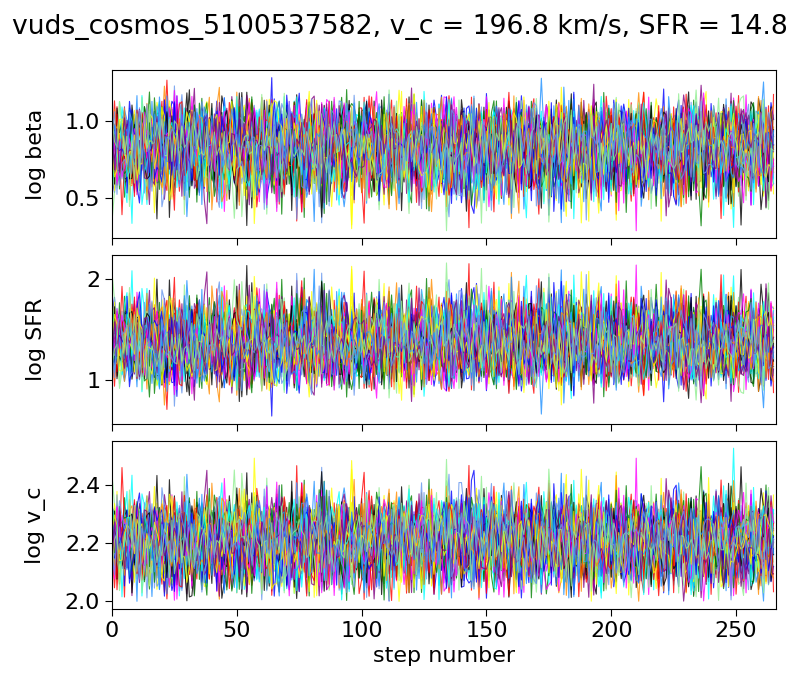
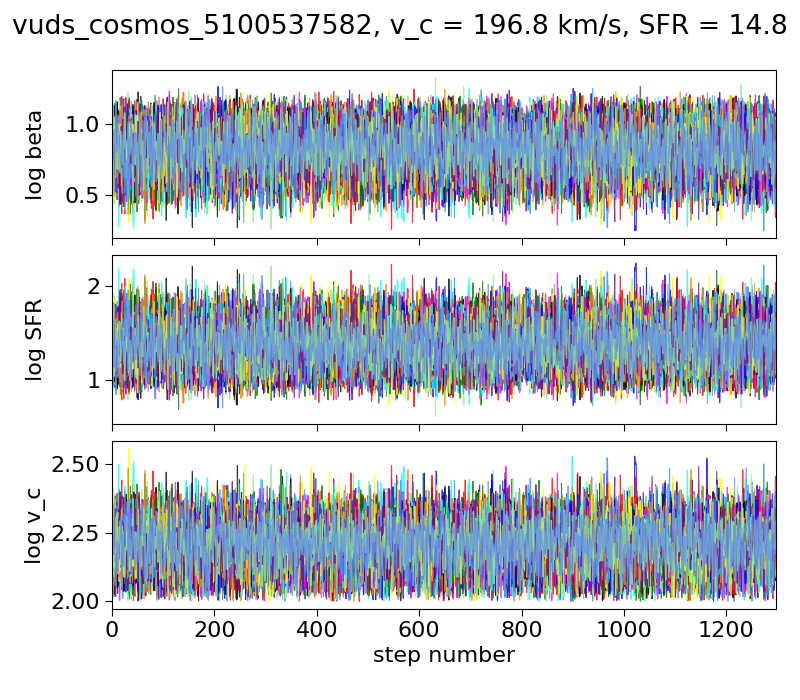
finishing files per laura and other modifications

diff --git a/script/plotter_mcmc.py b/script/plotter_mcmc.py
@@ -54,9 +54,9 @@ plot_saving = True
 
 plot0 = False  # single emission chain (requires gnedincooling)
 plot1 = False  # emission chains (requires gnedincooling)
-plot2 = True  # corners
+plot2 = False  # corners
 plot3 = False  # violins
-plot4 = False  # final trends
+plot4 = True  # final trends
 
 stored_data_loc = "mac" # can be either quasar (for the machine is quasar in leiden) or mac (for mac laptop) or github (for github)
                         # or linux (for linux laptop)plot_logprob = False
@@ -67,11 +67,11 @@ model = "old"
 nwalkers = 48
 nsteps = 100000
 thin = 100
-discard = 2000
+discard = 10000
 
-data = obs_data_list[0]
+data = obs_data_list[4]
 
-string = "results for""\n""DC396844"
+string = "results for""\n""DC881725"
 
 params = dict([("DM_model", "NFW"),
                ("beta", 1.0),
@@ -343,7 +343,7 @@ if plot2:
     samples = reader.get_chain(thin=thin, discard=discard)
     samples_flat = reader.get_chain(flat=True, thin=thin, discard=discard)
 
-    tau = reader.get_autocorr_time(thin=1, discard=discard)
+    # tau = reader.get_autocorr_time(thin=1, discard=discard)
 
     print("###################################################################")
 
@@ -352,8 +352,8 @@ if plot2:
     print("n walkers = {}".format(nwalkers))
     print("data object = {}".format(data.params_obs["name_short"]))
     print("filename = {}".format(filename))
-    print("tau = {}".format(tau))
-    print("average tau = {}".format(np.mean(tau)))
+    # print("tau = {}".format(tau))
+    # print("average tau = {}".format(np.mean(tau)))
     print("###################################################################")
 
     kwargs = dict(
@@ -792,12 +792,12 @@ if plot4:
 
     ax_sfr.scatter(sfrs[mask], beta_means[mask], \
                    marker='o', color=cmap_rend_col((vcs[mask] - v_c_min) / (v_c_max - v_c_min)), \
-                   s=500 * (1. / abs(likelihood_means[mask])))
+                   edgecolor="gray", s=500 * (1. / abs(likelihood_means[mask])), alpha=0.8, zorder=30)
 
     ax_sfr.errorbar(sfrs[mask], beta_means[mask], \
                     [sigma_betas_down[mask], sigma_betas_up[mask]], \
                     [sigma_sfrs_down[mask], sigma_sfrs_up[mask]],
-                    ecolor="gray", linestyle="", barsabove=False, alpha=0.2)
+                    ecolor="gray", linestyle="", barsabove=False, alpha=0.2, zorder=20)
 
     ax_sfr.set_xlabel(r"SFR [M$_\odot$ yr$^{-1}$]")
     ax_sfr.set_ylabel("$\eta$", labelpad=-1.)

diff --git a/script/mcmc_fast_emission.py b/script/mcmc_fast_emission.py
@@ -211,8 +211,7 @@ def get_emission_fast(theta, data, other_params, h, grid, f_beam,
             gamma_CI + kappa_CI * n_e) + kappa_CII / beta_CIII)
 
     # emission part
-    # epsilon = 7.9e-20 * n ** 2 * (nc.A_C * Zeta) * nc.A_H * x_e * x_CII * np.exp(-92. / T) / 92. ** 0.5
-    epsilon = 7.9e-20 * n ** 2 * (nc.A_C * Zeta) * nc.A_H * x_e * x_CII*T ** (-0.5) * np.exp(-92. / T)
+    epsilon = 7.9e-20 * n ** 2 * (nc.A_C * Zeta) * nc.A_H * x_e * x_CII * np.exp(-92. / T) / 92. ** 0.5
 
     C_ul_e = 8.63e-6 / 2. / np.sqrt(T) * 1.60
     C_ul_H = 20. * 1e-10 / 1.3
@@ -228,10 +227,8 @@ def get_emission_fast(theta, data, other_params, h, grid, f_beam,
 
     T_spin = nc.T_star / np.log(num / den)
 
-    # eta = 1. - (np.exp(nc.hh * nc.line_CII_rest_frame / (nc.kk *(1.+redshift )*T_spin)) - 1.) / \
-    #       (np.exp((nc.hh * nc.line_CII_rest_frame) / (nc.kk *(1.+redshift )**2 *nc.CMB_temperature)) - 1.)
-    eta = 1. - (np.exp(nc.hh * nc.line_CII_rest_frame / (nc.kk *T_spin)) - 1.) / \
-          (np.exp((nc.hh * nc.line_CII_rest_frame) / (nc.kk *(1.+redshift ) *nc.CMB_temperature)) - 1.)
+    eta = 1. - (np.exp(nc.hh * nc.line_CII_rest_frame / (nc.kk *(1.+redshift )*T_spin)) - 1.) / \
+          (np.exp((nc.hh * nc.line_CII_rest_frame) / (nc.kk *(1.+redshift )**2 *nc.CMB_temperature)) - 1.)
 
     epsilon *= eta
 

diff --git a/script/main_profile_saver.py b/script/main_profile_saver.py
@@ -25,10 +25,10 @@ plotting = True
 
 params = dict([("DM_model", "NFW+disk"),
                ("beta", 6.8),
-               ("SFR", 15.),
+               ("SFR", 31.),
                ("f_esc_ion", 0.0),
                ("f_esc_FUV", 0.0),
-               ("v_c", 198.),
+               ("v_c", 199.),
                ("redshift", 5.0),
                ("Zeta", 1.0),
                ("alfa", 1.0),
@@ -44,7 +44,7 @@ print("##################################")
 
 # getting the profiles using the integrator in sol_modules.py (this is the step that needs to be optimized)
 
-resol = 1000
+resol = 10000
 
 time_profile = time.perf_counter()
 profiles = get_profiles(params, resol=resol, Rmax = 10, log_grid=True, print_time=False, integrator="RK45")
@@ -58,7 +58,7 @@ else:
     string_nans = "Integration successful"
 print(string_nans)
 
-profiles.to_file(attributes_in_name=f"VC5100537582_{resol}_per_laura_log_grid")
+profiles.to_file(attributes_in_name=f"DC630594_{resol}_per_laura_log_grid")
 
 if post_profiles:
     # getting the ionization states, the sigma CII and the convolved intensity for the CII

diff --git a/script/plotter_non_detections_analysis.py b/script/plotter_non_detections_analysis.py
@@ -1,4 +1,10 @@
 
+
+"""
+This script fenerates the plot for the paper for the non detection analysis
+N.B. Fits of the eta-sfr and eta-mstar relations need to be updated!
+"""
+
 import numpy as np
 import os
 import matplotlib.pyplot as plt
@@ -131,7 +137,8 @@ if plot1:
             intensity0, sigma0, r0, n0, v0, T0 = get_emission_fast(params0, data, other_params, h, grid, f_beam,
                                                                return_quantities="all")
 
-        qsigma, = ax_sigma.plot(h, sigma0, lw=lw, color=color, linestyle="-", label=r'$\eta$={:.1f}, SFR={:.0f}M$_\odot$yr$^{{-1}}$, v$_c$={:.0f}kms$^{{-1}}$'.format(eta0,sfr0,vc0))
+        qsigma, = ax_sigma.plot(h, sigma0, lw=lw, color=color, linestyle="-",
+                                label=r'$\eta$={:.1f}, SFR={:.0f}M$_\odot$yr$^{{-1}}$, v$_c$={:.0f}kms$^{{-1}}$'.format(eta0,sfr0,vc0))
 
         qint, = ax_flux.plot(h, intensity0, lw=lw, color=color, linestyle="-")
 

diff --git a/script/mcmc_post_analysis.py b/script/mcmc_post_analysis.py
@@ -25,7 +25,7 @@ from load_data import obs_data_list, names, names_CII_halo, observational_data_f
 stored_data_loc = "mac" # can be either quasar (for the machine is quasar in leiden) or mac (for mac laptop) or github (for github)
                         # or linux (for linux laptop)plot_logprob = False
 
-model = "old"
+model = "new"
 
 print_autocorr_time = False
 plot_logprob = False
@@ -36,11 +36,11 @@ plot1 = True # chains of the walkers
 plot2 = True # corner plot of the parameters
 plot3 = False # emission from the sampled posterior (requires gnedincooling) + luminosity of the CII line
 
-thin = 300
-discard = 5000
+thin = 1
+discard = 0
 
 nwalkers = 48
-nsteps = 100000#int(input("number of steps?"))
+nsteps = 10000#int(input("number of steps?"))
 
 
 int_data = int(input("data number?"))

diff --git a/script/my_utils.py b/script/my_utils.py
@@ -445,7 +445,7 @@ def from_xfitted_to_eta(x, a_fit, b_fit):
     Parameters
     ----------
     x: float
-        SFR or Mstar in solar masses per year or solar masses
+        SFR or Mstar in solar masses per year or 10^10 solar masses
     a_fit : float
         a_fit parameter from the fit
     b_fit : float
@@ -477,7 +477,6 @@ def from_eta_to_xfitted(eta, a_fit, b_fit):
     Returns
     -------
     float
-        SFR or Mstar in solar masses per year or solar masses
+        SFR or Mstar in solar masses per year or 10^10 solar masses
     """
     return 10 ** ((np.log10(eta) - np.log10(a_fit))/ b_fit)
-

diff --git a/script/mcmc_main.py b/script/mcmc_main.py
@@ -32,7 +32,7 @@ stored_data_loc = "quasar" # can be either quasar (for the machine is quasar in 
                         # or linux (for linux laptop)
 parallel = True
 optimization = True
-model = "new"
+model = "old"
 
 resume_old_chain = False
 

diff --git a/README.md b/README.md
@@ -50,6 +50,8 @@ The first workflow is based on the following scripts:
 
  - _main_profile_saver.py_: similar to main_pipeline_for_ALPINE but just for saving data files
 
+ - _main_profile_reader.py_: script to read the profiles saved in main_profile_saver
+
 
 The second workflow is based on the following scripts (all starting with _mcmc_):
 
